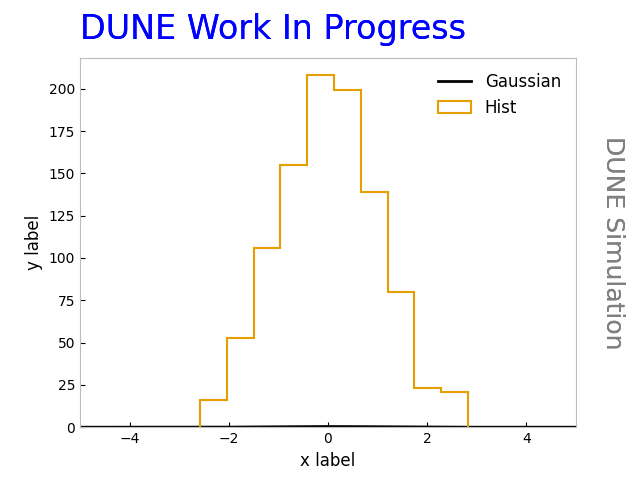
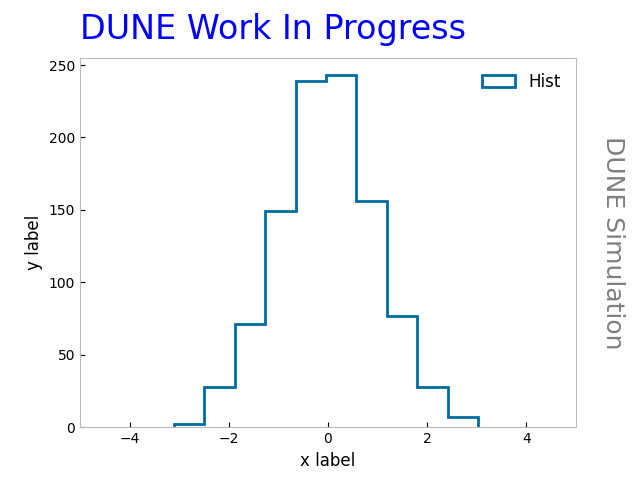
Fix bug where 1DHist was drawing an empty Gaussian

diff --git a/examples/matplotlib/example.py b/examples/matplotlib/example.py
@@ -28,10 +28,11 @@ def Gauss1D():
 
 ### 1D histogram example ###
 def Hist1D():
-    mu, sigma = 0, 1
-    x_gaus = np.random.normal(mu, sigma, 1000)
+    x = np.random.normal(0, 1, 1000)
 
-    plt.hist(x_gaus, histtype='step', label="Hist", linewidth=1.5)
+    plt.figure()
+    plt.style.use('tableau-colorblind10')
+    plt.hist(x, histtype='step', label="Hist", linewidth=2)
     plt.xlabel('x label')
     plt.ylabel('y label')
     plt.xlim(-5,5)
